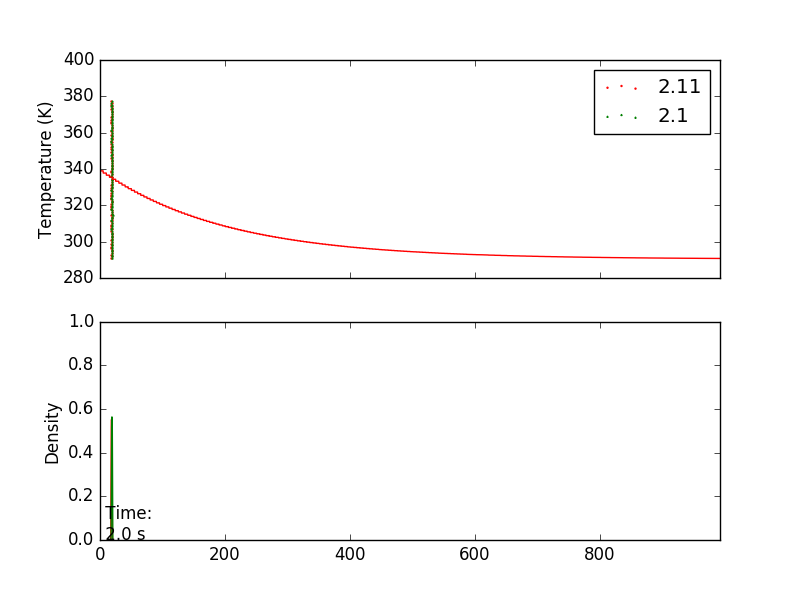
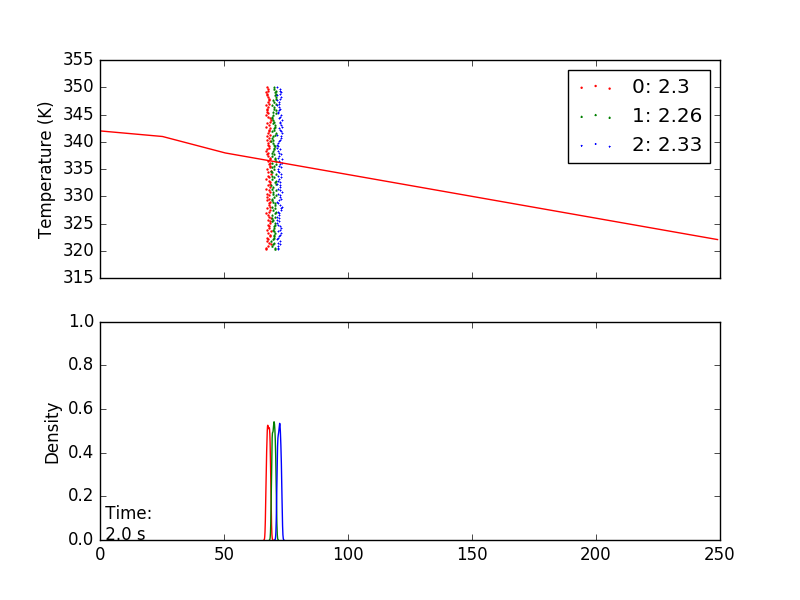
code works now for multiple molecules and keeps track of exit time

diff --git a/Code/python/ExpSerpentine/newCode/ExpSerpentine_RealGradient4.py b/Code/python/ExpSerpentine/newCode/ExpSerpentine_RealGradient4.py
@@ -16,10 +16,10 @@ timeData = np.loadtxt(p.timeFileName,delimiter = ',')
 GData = interpT.GradientData(colPosition,timeData,TemperatureGradients)
 colLength = colPosition[len(colPosition)-1] - colPosition[0]  # Column length [cm]
 
-C = -7.22173 - 0.47406*p.X                # Formula for calculating C where X is the number of carbons.  Includes phase ratio
-C = np.array([-11.1277,-11.2829])       # ????? Stick with this assignment ????
-h = (2284.0 + 819*p.X) * 4.18442979       #  Calculation of enthalpy (Joules)
-h = np.array([34926.27 , 35245.71])     # ????? stick with this assigment ?????
+#C = -7.22173 - 0.47406*p.X                # Formula for calculating C where X is the number of carbons.  Includes phase ratio
+C = -9.7309 - 0.1552*p.X             #Formula using hard coded C values
+#h = (2284.0 + 819*p.X) * 4.18442979       #  Calculation of enthalpy (Joules)
+h = (7659.66012301 + 76.4301505179*p.X) * 4.18442979       #  Calculation of enthalpy (Joules) using hard code values to calc
 
 p_i = p.p_i*6894.757          # This converts pressure from psi units to Pascals
 p_o = p.p_o*6894.757          # This converts pressure from psi units to Pascals
@@ -54,23 +54,11 @@ for i in range(0,p.j):
 #	This is also used to plot location of the molecules.  The y-axis values for plot are determined
 #	from the matrix column index.  (Rows indicate analyte and column indicate individual molecules.)
 currentTime = timeData[0]
-resEnd = np.zeros((p.j,2))
-eluted1 = 1
-eluted2 = 1
-totalTime1 = 0
-totalTime2 = 0
-spread1 = 0
-spread2 = 0
-
-peak_width = np.array([])
-plot_res = np.array([])
+plot_res = np.zeros((p.j-1,0))
 #added_dc#############################################################
-vel1_x = np.array([])
-vel2_x = np.array([])
-pos1_x = np.array([])
-pos2_x = np.array([])
-std1 = np.array([])
-std2 = np.array([])
+vel_x = np.zeros((p.j,0))
+pos_x = np.zeros((p.j,0))
+std = np.zeros((p.j,0))
 time = np.array([])
 Tmax = np.amax(TemperatureGradients)
 Tmin = np.amin(TemperatureGradients)
@@ -114,21 +102,14 @@ for n in range(0,runTime+1):
     detector[np.where(x > colLength)] = 1
     moleculeExitTime[np.where(detector != prevDetector)] = currentTime
     if n % pauseCount == 0:
-        vel1_x = np.append(vel1_x , np.mean(velocity_x[0]))
-        vel2_x = np.append(vel2_x , np.mean(velocity_x[1]))
-        pos1_x = np.append(pos1_x , np.mean(x[0]))
-        pos2_x = np.append(pos2_x , np.mean(x[1]))
-        standev1 = np.std(x[0,],axis=0,ddof=1)
-        standev2 = np.std(x[1,],axis=0,ddof=1)
-        std1 = np.append(std1 , standev1)
-        std2 = np.append(std2 , standev2)
         if np.min(x) > colLength:
-           #break
-           break
-        top_pks = np.zeros(p.j)
-        pk_head = np.zeros(p.j)
-        pk_tail = np.zeros(p.j)
-        peakx = np.zeros(1)
+            break
+        print(currentTime)
+        time = np.append(time,currentTime)
+        vel_x = np.append(vel_x,np.array([np.mean(velocity_x,axis = 1)]).T,axis=1)
+        currentMeanPos = np.array([np.mean(x,axis = 1)]).T
+        pos_x = np.append(pos_x,currentMeanPos,axis=1)
+        std = np.append(std,np.array([np.std(x,axis=1,ddof=1)]).T,axis=1)
         f,(ax1,ax2) = plt.subplots(2, sharex=True)
         plt.xlim(0,colLength)
         plt.ylim(Tmin-Tmax)
@@ -138,11 +119,13 @@ for n in range(0,runTime+1):
         for i in range(0,p.j):
            lab = str(i) + ": " + str(round(4*np.std(x[i,],axis=0,ddof=1) , 2))
            ax1.scatter(x[i,], 1.0*np.arange(1,p.nMol+1)/p.nMol*Tdelta+Tmin,color = p.colors[i],s = 0.5,  marker = p.markers[i],label =lab)
-        ax1.legend()
-        tmp = (np.std(x[0,],axis=0,ddof=1)+np.std(x[1,],axis=0,ddof=1))/2.0
-        peak_width = np.append(peak_width, 4*tmp)
-        res = (np.mean(x[0,])-np.mean(x[1,]))/(4.0*tmp)
-        plot_res = np.append(plot_res, res)
+        ax1.legend(loc = 'best')
+        tmp = np.array([np.std(x,axis=1,ddof=1)]).T
+        tmp = (tmp[0:len(tmp)-1] + tmp[1:len(tmp)])/2
+        res = (currentMeanPos[0:len(currentMeanPos)-1]-currentMeanPos[1:len(currentMeanPos)]) / (4.0*tmp)
+        if(len(res) < 2):
+            res = res.T
+        plot_res = np.append(plot_res, res,axis=1)
         xx = np.linspace(0,colLength-1,(colLength-1)/.1 + 1)
         yy = (TempPlus[(xx*p.tempGranularity).astype(int)])
         ax1.plot(xx,yy,color = 'red')
@@ -151,22 +134,14 @@ for n in range(0,runTime+1):
            sns.kdeplot(x[i,],color=p.colors[i],ax=ax2) #density plot
         intSec = int(currentTime)
         intDecimal = int((currentTime - intSec)*100)
-        time = np.append(time,currentTime)
-        print(currentTime)
         plt.text(0,0,' Time:\n ' + str(currentTime)  + ' s')
         f.savefig('Time_' + str(intSec) + "_" + str(intDecimal))
         plt.close(f)
     #### End Standard Execution
-np.savetxt("x.csv", x, delimiter=",")
-np.savetxt("detector.csv", detector, delimiter=",")
 np.savetxt("molecExitTime.csv", moleculeExitTime, delimiter=",")
-np.savetxt("vel1_x.csv", vel1_x, delimiter=",")
-np.savetxt("vel2_x.csv", vel2_x, delimiter=",")
-np.savetxt("pos1_x.csv", pos1_x, delimiter=",")
-np.savetxt("pos2_x.csv", pos2_x, delimiter=",")
-np.savetxt("std1.csv", std1, delimiter=",")
-np.savetxt("std2.csv", std2, delimiter=",")
+np.savetxt("vel_x.csv", vel_x, delimiter=",")
+np.savetxt("pos_x.csv", pos_x, delimiter=",")
+np.savetxt("std.csv", std, delimiter=",")
 np.savetxt("resolution.csv", plot_res, delimiter=",")
 np.savetxt("timeOutput.csv", time, delimiter=",")
-#write.csv(peak_width,file="peak_width.csv",row.names=FALSE)
 ##### End picture drawing

diff --git a/Code/python/ExpSerpentine/newCode/Parameters_ExpSerpentine.py b/Code/python/ExpSerpentine/newCode/Parameters_ExpSerpentine.py
@@ -1,24 +1,24 @@
 import numpy as np
 import math
 
-gradientFileName = "temperature.csv"
-positionFileName = "colPosition.csv"
-timeFileName = "time.csv"
+gradientFileName = "temperatureTest.csv"
+positionFileName = "positionTest.csv"
+timeFileName = "timeTest.csv"
 posUnits = 1 # assume cm, (if meters then posUnits= 100, if mm then posUnits = .1 etc . .)
 
 colors  = ['red','green','blue','grey30']
-markers = np.array(["o","^","P","x","D","v","s"])
-j = 2                       # Number of compounds
+markers = np.array(["o","^","x","D","v","s"])
+j = 3                     # Number of compounds
+X = np.array([9.0,10.0,11.0])    # Alkane length
 nMol = 100                  # Number of molecules per compound used in simulation
 gamma1 = 5.113e-3           # Molecular diffusion coefficient when using both temp and pressure.
 gamma3 = 7.676e-8           # Resistence to flow for adsorption/deporption (no pressure variable)
 gamma2 = 1.217e-9           # Golay's formula for resistence to transport when using both temp and pressure in diffusion expression.
 delta_t = 0.0001            # Time step
-X = np.array([9.0,10.0])    # Alkane length
 R = 8.3144621               # Boltzman's constant [Joules/ Kelvin mole]
 diameter = 0.0100           # Inner diameter of the column [cm]
 p_i = 57.16                 # Column inlet pressure by gage measured in psi.  For true inlet must add atmosphere pressure.
 p_o = 13.8                  # This is the outlet pressure or Atmospheric pressure in psi.
 tempGranularity = 1.0e2     # granularity of temperatures across column. data points/cm
 powerAce = 100.0
-injectionWidth = 2  #  Width of injection plug at time zero in cm.
+injectionWidth = 2          #  Width of injection plug at time zero in cm.

diff --git a/Code/python/ExpSerpentine/newCode/plotResults.py b/Code/python/ExpSerpentine/newCode/plotResults.py
@@ -1,0 +1,58 @@
+import numpy as np
+import matplotlib.pyplot as plt
+
+res = abs(np.loadtxt("resolution.csv",delimiter = ','))
+pos = np.loadtxt("pos_x.csv",delimiter = ',')
+vel = np.loadtxt("vel_x.csv",delimiter = ',')
+std = np.loadtxt("std.csv",delimiter = ',')
+molecExit = np.loadtxt("molecExitTime.csv",delimiter = ',')
+t = np.loadtxt("timeOutput.csv",delimiter = ',')
+
+plt.figure(1)
+for i in range(len(pos)):
+    plt.plot(t,pos[i],label = "Compound " + str(i))
+plt.legend(loc = 'best')
+plt.xlabel("Time (sec)")
+plt.ylabel("Molecule Location")
+plt.title("Average Position of Compounds")
+plt.show()
+
+plt.figure(2)
+for i in range(len(vel)):
+    plt.plot(t,vel[i],label = "Compound " + str(i))
+plt.legend(loc = 'best')
+plt.xlabel("Time (sec)")
+plt.ylabel("Molecule Velocity")
+plt.title("Average Velocity of Compounds")
+plt.show()
+
+plt.figure(3)
+for i in range(len(std)):
+    plt.plot(t,std[i],label = "Compound " + str(i))
+plt.legend(loc = 'best')
+plt.xlabel("Time (sec)")
+plt.ylabel("Molecule Standard Deviation")
+plt.title("Standard Deviation of Each Compound")
+plt.show()
+
+plt.figure(4)
+for i in range(len(res)):
+    plt.plot(t,std[i],label = "Compound " + str(i) + " to " + str(i+1))
+plt.legend(loc = 'best')
+plt.xlabel("Time (sec)")
+plt.ylabel("Resolution")
+plt.title("Resolution")
+plt.show()
+
+plt.figure(5)
+for i in range(len(molecExit)):
+    y = np.linspace(0,1,len(molecExit[0]))
+    print("len y: ", len(y))
+    print("molecExit[i]: ", len(molecExit[i]))
+    np.random.shuffle(y)
+    plt.scatter(molecExit[i],y,label = "Compound " + str(i))
+plt.legend(loc = 'best')
+plt.xlabel("Time (sec)")
+plt.ylabel("Exit Time")
+plt.title("Compound Exit Time")
+plt.show()
